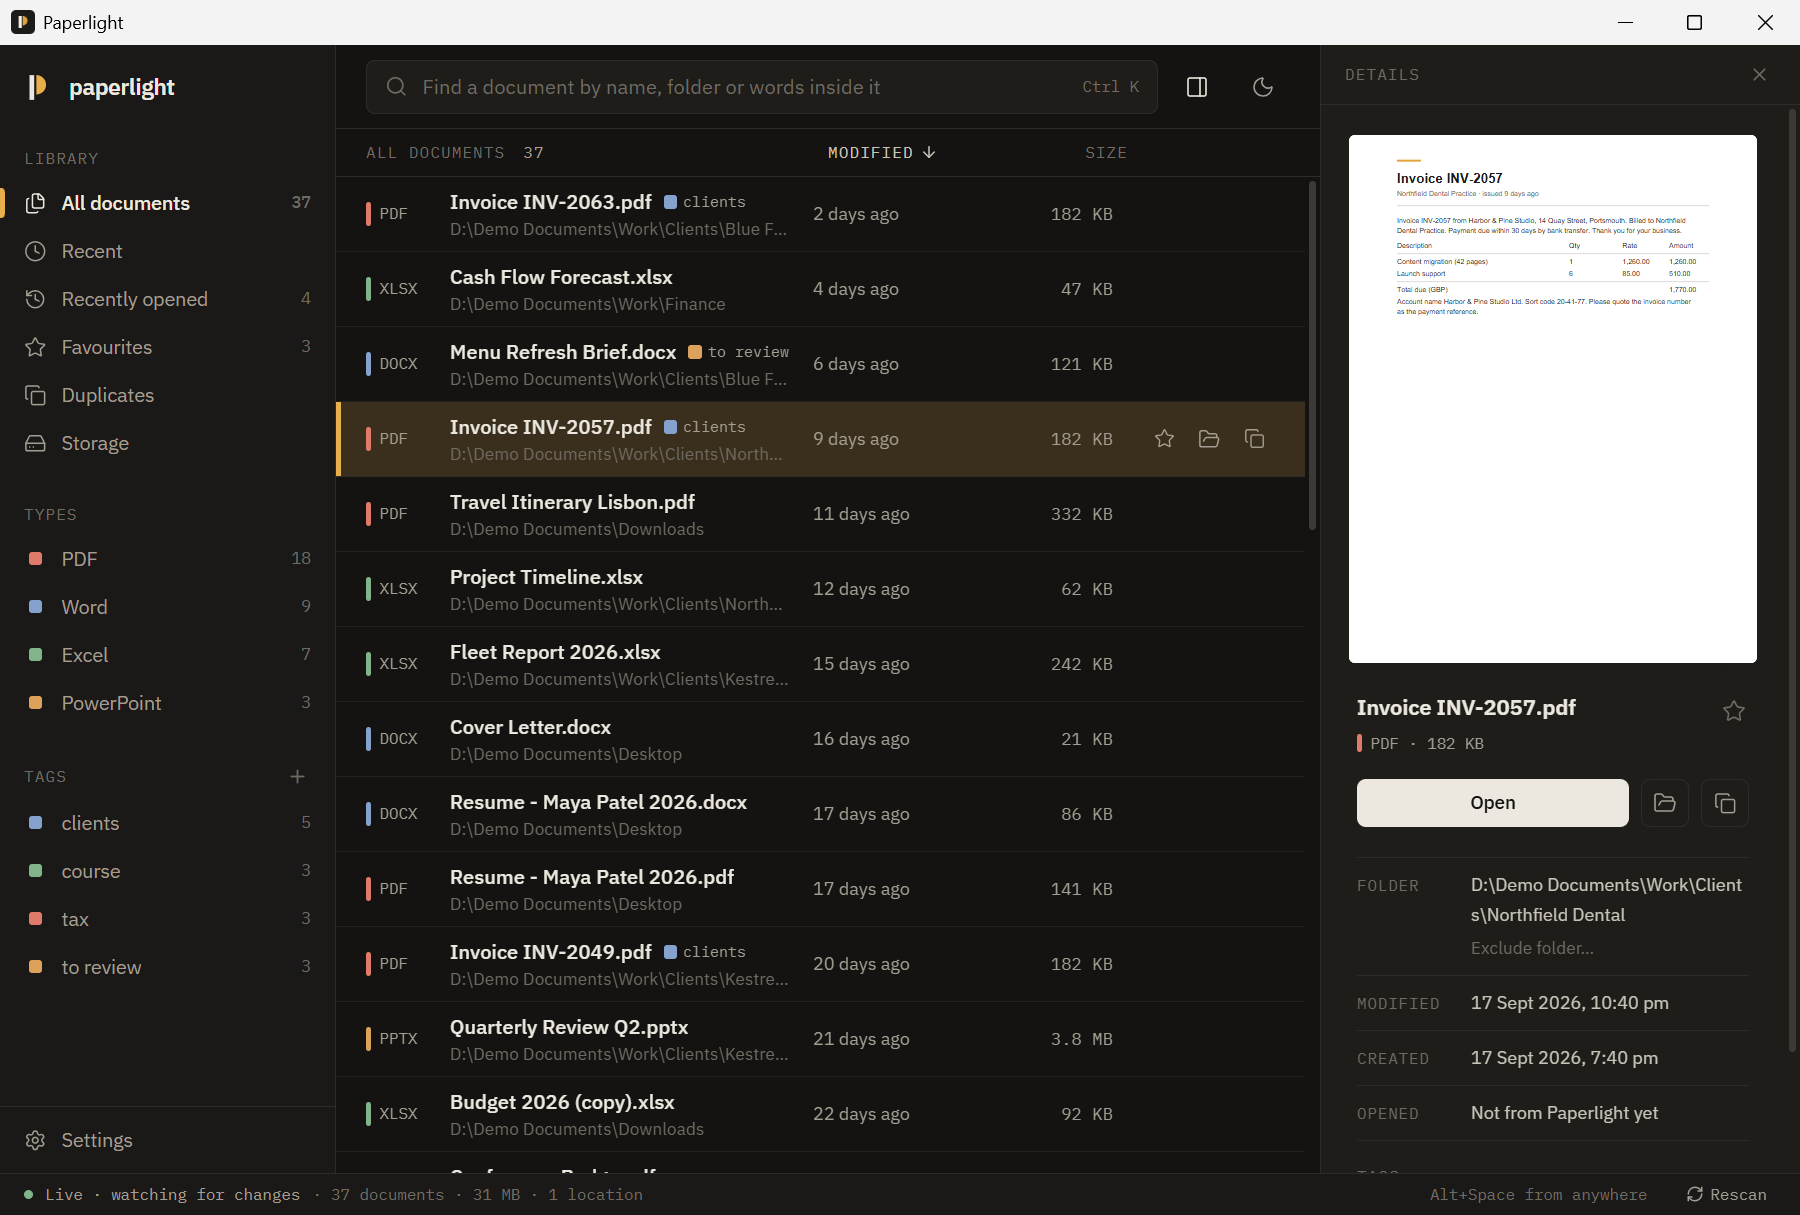
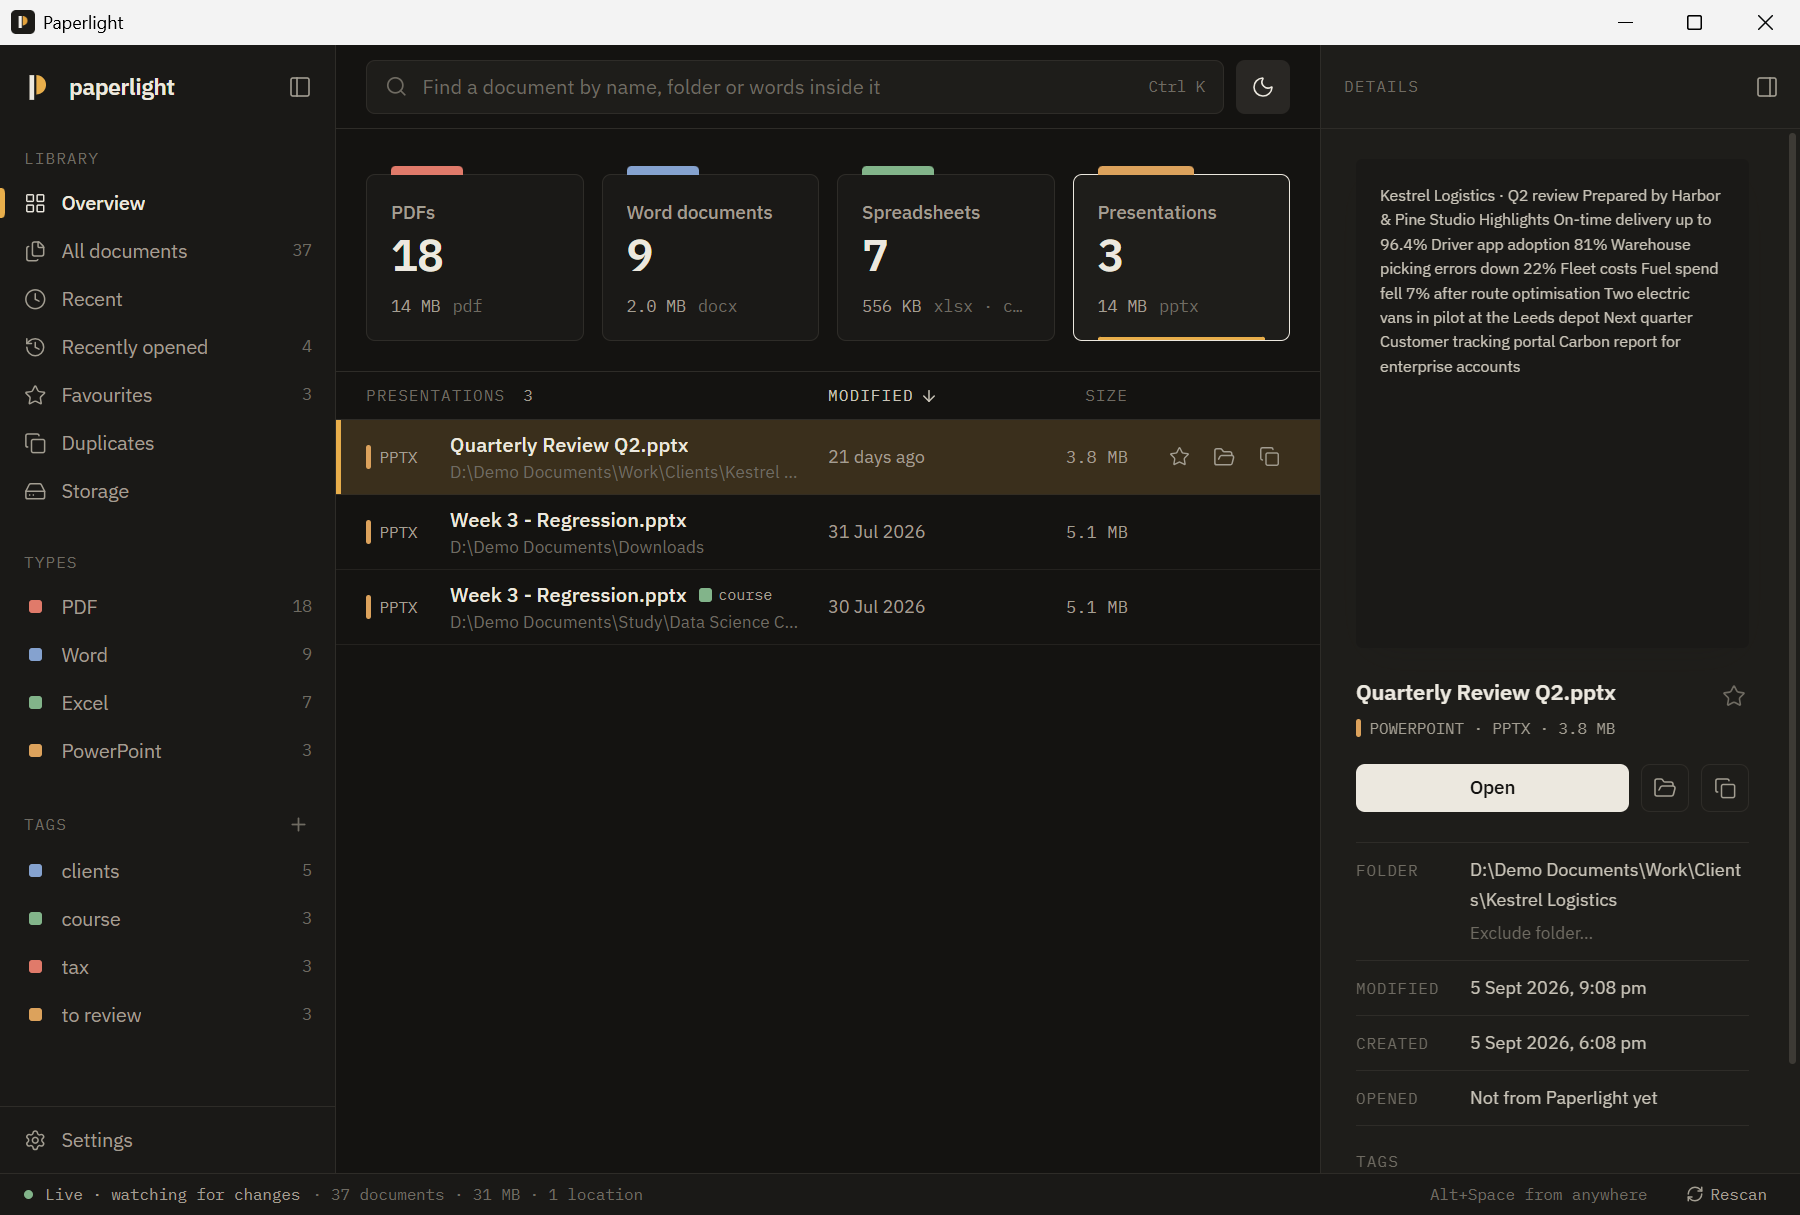
docs: community files and a crisp README with new screenshots
- CONTRIBUTING, CODE_OF_CONDUCT, SECURITY, issue forms, PR template
- README rewritten for visitors: pitch, features, screenshot grid, install,
  privacy, keyboard, build, contributing; slot for the demo video

diff --git a/README.md b/README.md
@@ -1,116 +1,99 @@
-<p><img src="public/paperlight.svg" width="56" alt="Paperlight"></p>
+<p align="center">
+  <img src="public/paperlight.svg" width="72" alt="Paperlight logo">
+</p>
 
-# Paperlight
+<h1 align="center">Paperlight</h1>
 
-A spotlight for every document on your PC.
+<p align="center">
+  <b>Every document on your PC, one search away.</b><br>
+  Find any PDF, Word, Excel or PowerPoint file by name, folder or the words inside it.<br>
+  Fast, private, and it never touches your files.
+</p>
 
-Paperlight finds every PDF, Word, Excel and PowerPoint file on your Windows PC and keeps the
-list current as files are added, renamed, moved or deleted. Search by name, folder or the words
-inside a document, from the app or from anywhere with <kbd>Alt</kbd>+<kbd>Space</kbd>.
-Your files are only read: nothing is moved, renamed, uploaded or deleted.
+<p align="center">
+  <a href="https://github.com/webKing021/paperlight/releases/latest"><b>Download for Windows</b></a> ·
+  <a href="#features">Features</a> ·
+  <a href="CONTRIBUTING.md">Contribute</a>
+</p>
 
-![Paperlight: all documents with a PDF preview](docs/screenshots/library.png)
+<p align="center">
+  <a href="https://github.com/webKing021/paperlight/releases/latest"><img alt="Latest release" src="https://img.shields.io/github/v/release/webKing021/paperlight?color=1c1b18&label=release"></a>
+  <a href="https://github.com/webKing021/paperlight/actions/workflows/ci.yml"><img alt="CI" src="https://img.shields.io/github/actions/workflow/status/webKing021/paperlight/ci.yml?branch=main&label=ci"></a>
+  <a href="LICENSE"><img alt="MIT license" src="https://img.shields.io/badge/license-MIT-e3a23b"></a>
+</p>
 
-## Download
+![Paperlight overview: a bucket per document type, with a PDF preview](docs/screenshots/overview.png)
 
-Get `Paperlight_1.0.0_x64-setup.exe` from the
-[latest release](https://github.com/webKing021/paperlight/releases/latest) and run it
-(Windows 10/11, 64-bit; installs per user, no admin rights needed). The installer is not
-code-signed yet, so Windows SmartScreen may ask you to confirm: choose *More info → Run anyway*.
+<!--
+  DEMO VIDEO
+  1. Open this file on github.com and click the pencil (Edit).
+  2. Drag the .mp4 (max 100 MB) onto this spot. GitHub uploads it and inserts a link.
+  3. Put that link on its own line, replacing this comment, and commit.
+  GitHub turns the link into an inline video player.
+-->
 
-On first run, choose the drives or folders to index and press *Start indexing*. A laptop with a
-few hundred documents is indexed in seconds; after that, a file watcher keeps up in real time.
+## Why
 
-## What it does
+Documents pile up everywhere: Downloads, Desktop, project folders, old drives. You remember
+what a file was about, not where you saved it. Paperlight indexes them all once, keeps up as
+they change, and finds any of them in milliseconds.
 
-**Search names, folders and text.** Type part of a name, a folder, or a phrase from inside the
-document. Results are ranked (names first, then folders, then text), tolerate small typos
-(`reprot` finds *report*), and show the matching passage.
+## Features
 
-![Searching for a phrase inside documents](docs/screenshots/search.png)
+- **Search inside documents.** Names, folders and the text of PDFs, Word, Excel and PowerPoint
+  files, typo-tolerant, with the matching passage highlighted.
+- **Buckets.** One tile per document type: PDFs, Word documents, Spreadsheets, Presentations.
+- **Quick search from anywhere.** <kbd>Alt</kbd>+<kbd>Space</kbd> in any app, then <kbd>Enter</kbd> to open.
+- **Always current.** New, renamed, moved and deleted files show up within a second.
+- **Organise without touching files.** Favourites, tags, recently opened, previews.
+- **Duplicates and storage.** Find byte-identical copies and see what takes space.
+- **You choose what's indexed.** Pick the file formats and folders; skip the rest.
+- **Light and dark.** Follows Windows, or pick one.
 
-**Quick search from any app.** <kbd>Alt</kbd>+<kbd>Space</kbd> opens a small launcher
-(falls back to <kbd>Ctrl</kbd>+<kbd>Shift</kbd>+<kbd>Space</kbd> or <kbd>Ctrl</kbd>+<kbd>Alt</kbd>+<kbd>P</kbd>
-if another app owns it). <kbd>Enter</kbd> opens, <kbd>Ctrl</kbd>+<kbd>Enter</kbd> shows the file in
-its folder.
+## Screenshots
 
-<img src="docs/screenshots/quick-search.png" width="620" alt="Quick search launcher">
-
-**Always current.** New, changed, renamed, moved and deleted documents show up within about a
-second. Renames and moves keep favourites, tags and history.
-
-**Organise without touching files.** Favourites, tags, recently opened, recently modified and
-per-type views. Tags live in Paperlight's own database, never in your files.
-
-**Duplicates.** Finds byte-identical copies: same size first, then the first 64 KB, then a full
-blake3 hash, only for files that still match. Shows where each copy lives, with Open and Show in
-folder. Paperlight never deletes anything.
-
-![Duplicate documents](docs/screenshots/duplicates.png)
-
-**Storage.** Count, size and share per type, and the largest documents.
-
-![Storage insights](docs/screenshots/storage.png)
-
-**Settings.** Locations (add, pause, remove), excluded folders, theme, start with Windows,
-rescan and reset. Any document's right-click menu also has *Exclude folder…*, which lets you drop
-a whole tree (say, a tools folder) from the index in one click.
-
-![Settings](docs/screenshots/settings.png)
-
-Light and dark themes follow Windows, or pick one.
-
-![Dark theme](docs/screenshots/dark.png)
-
-### Keyboard
-
-| Keys | Action |
+| Search inside documents | Quick search (<kbd>Alt</kbd>+<kbd>Space</kbd>) |
 |---|---|
-| <kbd>Ctrl</kbd>+<kbd>K</kbd> | Focus search |
-| <kbd>↑</kbd> <kbd>↓</kbd> <kbd>PgUp</kbd> <kbd>PgDn</kbd> | Move through results |
-| <kbd>Enter</kbd> / <kbd>Ctrl</kbd>+<kbd>Enter</kbd> | Open / show in folder |
-| <kbd>Ctrl</kbd>+<kbd>Shift</kbd>+<kbd>C</kbd> | Copy path |
-| <kbd>Ctrl</kbd>+<kbd>D</kbd> | Favourite |
-| <kbd>Ctrl</kbd>+<kbd>T</kbd> | Tag |
-| <kbd>Ctrl</kbd>+<kbd>I</kbd> | Details panel |
-| <kbd>Alt</kbd>+<kbd>Space</kbd> | Quick search from any app |
+| ![Search results with matching passages](docs/screenshots/search.png) | ![Quick search launcher](docs/screenshots/quick-search.png) |
+| **Duplicates** | **Storage** |
+| ![Identical copies grouped](docs/screenshots/duplicates.png) | ![Size by type and largest documents](docs/screenshots/storage.png) |
+| **Settings: formats and folders** | **Dark theme** |
+| ![Choose file formats](docs/screenshots/settings.png) | ![Dark theme](docs/screenshots/dark.png) |
+
+## Install
+
+1. Download `Paperlight_x.y.z_x64-setup.exe` from the [latest release](https://github.com/webKing021/paperlight/releases/latest).
+2. Run it. Windows 10/11, 64-bit; no admin rights needed. SmartScreen may warn because the
+   installer isn't code-signed yet: *More info → Run anyway*.
+3. Pick the drives or folders to index and press **Start indexing**.
 
 ## Private and light
 
-- **Local only.** No network access, no telemetry, no accounts. The index lives in
-  `%APPDATA%\com.paperlight.app`.
-- **Read-only on your documents.** Files are opened only to read their text (for search) and,
-  in the Duplicates view, to compare contents.
-- **Quiet in the background.** One full scan, then an event-driven watcher (no polling). A
-  catch-up sync on launch runs only if the index is over 12 hours old, at background CPU and
-  disk priority, and writes only what changed.
-- **Small.** 4.7 MB installer. With the window closed, Paperlight sits in the tray as a ~6 MB
-  process; the window's web view is destroyed, not hidden. Idle CPU is zero. The index for a
-  few hundred documents, including their searchable text, takes a few MB.
+- **Local only.** No network access, no telemetry, no account.
+- **Read-only.** Your files are never modified, moved or deleted.
+- **Tiny.** ~5 MB installer, ~6 MB of memory in the tray, zero CPU when idle.
 
-Skipped by default: Windows, Program Files, ProgramData, AppData, the Recycle Bin, and
-developer folders such as `node_modules`, `venv` and dot-folders. Legacy `.doc` and `.ppt`
-files are listed and searchable by name, but their text isn't read.
+## Keyboard
+
+<kbd>Ctrl</kbd>+<kbd>K</kbd> search · <kbd>Enter</kbd> open · <kbd>Ctrl</kbd>+<kbd>Enter</kbd> show in folder ·
+<kbd>Ctrl</kbd>+<kbd>D</kbd> favourite · <kbd>Ctrl</kbd>+<kbd>T</kbd> tag ·
+<kbd>Ctrl</kbd>+<kbd>B</kbd> sidebar · <kbd>Ctrl</kbd>+<kbd>I</kbd> details
 
 ## Build from source
 
-Requirements: Node.js 20+, Rust (stable, MSVC), Visual Studio C++ Build Tools, WebView2.
-
 ```bash
 npm install
-npm run tauri dev      # run with hot reload
-npm run tauri build    # installer in src-tauri/target/release/bundle/nsis
+npm run tauri dev      # run
+npm run tauri build    # installer → src-tauri/target/release/bundle/nsis
 ```
 
-Checks run in CI: `npm run build` (type-check + bundle), `cargo fmt --check`,
-`cargo clippy -D warnings`, `cargo test`.
+Needs Node.js 20+, Rust (MSVC) and the Visual Studio C++ Build Tools. Built with
+[Tauri 2](https://tauri.app), Rust, SQLite FTS5 and React.
 
-Set `PAPERLIGHT_DATA_DIR` to keep a separate index (useful for demos and testing). The
-screenshots above were taken this way, on a folder of made-up sample documents.
+## Contributing
 
-Built with [Tauri 2](https://tauri.app), Rust, SQLite (FTS5), React and Tailwind CSS.
-The design and roadmap are in [PLAN.md](PLAN.md); release notes in [CHANGELOG.md](CHANGELOG.md).
+Issues and pull requests are welcome. Start with [CONTRIBUTING.md](CONTRIBUTING.md) and look
+for [good first issues](https://github.com/webKing021/paperlight/labels/good%20first%20issue).
+If Paperlight saves you time, a star helps others find it.
 
-## License
-
-MIT
+Screenshots show made-up sample documents. [MIT](LICENSE) licensed.

diff --git a/CONTRIBUTING.md b/CONTRIBUTING.md
@@ -1,0 +1,78 @@
+# Contributing to Paperlight
+
+Thanks for helping. Bug reports, ideas, docs and code are all welcome.
+
+## Ways to help
+
+- **Report a bug**: [open an issue](https://github.com/webKing021/paperlight/issues/new/choose)
+  with steps to reproduce and your Windows version.
+- **Suggest a feature**: open a feature request and describe the problem it solves.
+- **Pick an issue**: look for [`good first issue`](https://github.com/webKing021/paperlight/labels/good%20first%20issue)
+  or [`help wanted`](https://github.com/webKing021/paperlight/labels/help%20wanted). Comment
+  on it so nobody duplicates work.
+
+## Set up
+
+You need Windows 10/11, Node.js 20+, Rust (stable, MSVC toolchain), the Visual Studio C++
+Build Tools and WebView2 (preinstalled on Windows 11).
+
+```bash
+git clone https://github.com/webKing021/paperlight
+cd paperlight
+npm install
+npm run tauri dev
+```
+
+Tip: `PAPERLIGHT_DATA_DIR=<some folder>` keeps a separate index, so you can experiment
+without touching your real one.
+
+## Project layout
+
+```
+src/                React + TypeScript UI (components/, lib/, stores/)
+src-tauri/src/
+  commands.rs       everything the UI can call
+  db/               SQLite schema, migrations and queries (FTS5)
+  indexer/          scanner, live watcher, exclusions and formats
+  content/          reading text out of documents
+  dupes.rs          duplicate detection
+  search.rs         query parsing and ranking
+  shell.rs          tray, hotkey, quick-search window
+```
+
+`PLAN.md` explains the design; `CHANGELOG.md` lists what changed.
+
+## Making a change
+
+1. Branch from `dev`: `git checkout -b feature/short-name dev`.
+2. Keep the change focused. Add or update tests for Rust logic.
+3. Run the same checks as CI:
+
+   ```bash
+   npm run build                                   # type-check + bundle
+   cd src-tauri
+   cargo fmt --check
+   cargo clippy --all-targets -- -D warnings
+   cargo test
+   ```
+
+4. Add a line to `CHANGELOG.md` under *Unreleased*.
+5. Open a pull request **into `dev`**. Screenshots help for UI changes.
+
+Commit messages follow [Conventional Commits](https://www.conventionalcommits.org/)
+(`feat:`, `fix:`, `docs:`, `refactor:`, `test:`, `chore:`).
+
+## Principles
+
+These are what make Paperlight Paperlight; PRs are reviewed against them.
+
+- **Read-only.** Paperlight never modifies, moves or deletes a user's files.
+- **Private.** No network access, no telemetry.
+- **Light.** No polling timers, no needless scans, near-zero CPU when idle. Heavy UI code is
+  lazy-loaded. Measure memory and CPU for anything that runs in the background.
+- **Calm design.** Reuse the paper/ink/lamp tokens in `src/index.css`, IBM Plex Sans/Mono,
+  hairline rules and small radii. No gradients, glows or pastel badges.
+
+## Code of conduct
+
+By taking part you agree to the [Code of Conduct](CODE_OF_CONDUCT.md).

diff --git a/CODE_OF_CONDUCT.md b/CODE_OF_CONDUCT.md
@@ -1,0 +1,18 @@
+# Code of Conduct
+
+Paperlight follows the [Contributor Covenant](https://www.contributor-covenant.org/version/2/1/code_of_conduct/),
+version 2.1.
+
+## In short
+
+- Be kind and patient. Assume good intent.
+- Welcome people of every background and level of experience.
+- Critique code and ideas, never people.
+- No harassment, insults, discrimination or unwelcome attention, in any space of the project.
+
+## Reporting
+
+If someone's behaviour worries you, contact the maintainer privately through GitHub
+([@webKing021](https://github.com/webKing021)). Reports are handled confidentially. The
+maintainer may remove comments, commits or contributions, or ban participants, who break
+this code.

diff --git a/CHANGELOG.md b/CHANGELOG.md
@@ -5,6 +5,12 @@ The format follows [Keep a Changelog](https://keepachangelog.com/en/1.1.0/).
 
 ## [Unreleased]
 
+### Added: open source community
+- CONTRIBUTING (setup, layout, checks, principles), Code of Conduct, security policy, issue
+  forms (bug, feature) and a pull request checklist.
+- README rewritten: short and scannable, screenshot grid of the new UI, and a slot for the
+  demo video.
+
 ### Added: overview with buckets, sliding side panels
 - Overview is the new home: a bucket per document type (PDFs, Word documents,
   Spreadsheets, Presentations) shown as folder-style tiles with a label-ink tab, count,

diff --git a/.github/pull_request_template.md b/.github/pull_request_template.md
@@ -1,0 +1,11 @@
+## What and why
+
+<!-- What does this change, and what problem does it solve? Link the issue: "Closes #123". -->
+
+## Checklist
+
+- [ ] Branched from and targeting `dev`
+- [ ] `npm run build`, `cargo fmt --check`, `cargo clippy -- -D warnings` and `cargo test` pass
+- [ ] `CHANGELOG.md` updated under *Unreleased*
+- [ ] Screenshots attached for UI changes
+- [ ] Still read-only on user files, no network access, nothing polling in the background

diff --git a/SECURITY.md b/SECURITY.md
@@ -1,0 +1,7 @@
+# Security
+
+Please report vulnerabilities privately through
+[GitHub security advisories](https://github.com/webKing021/paperlight/security/advisories/new),
+not in public issues. You'll get a reply as soon as possible, and credit once a fix is released.
+
+Only the latest release receives fixes.
